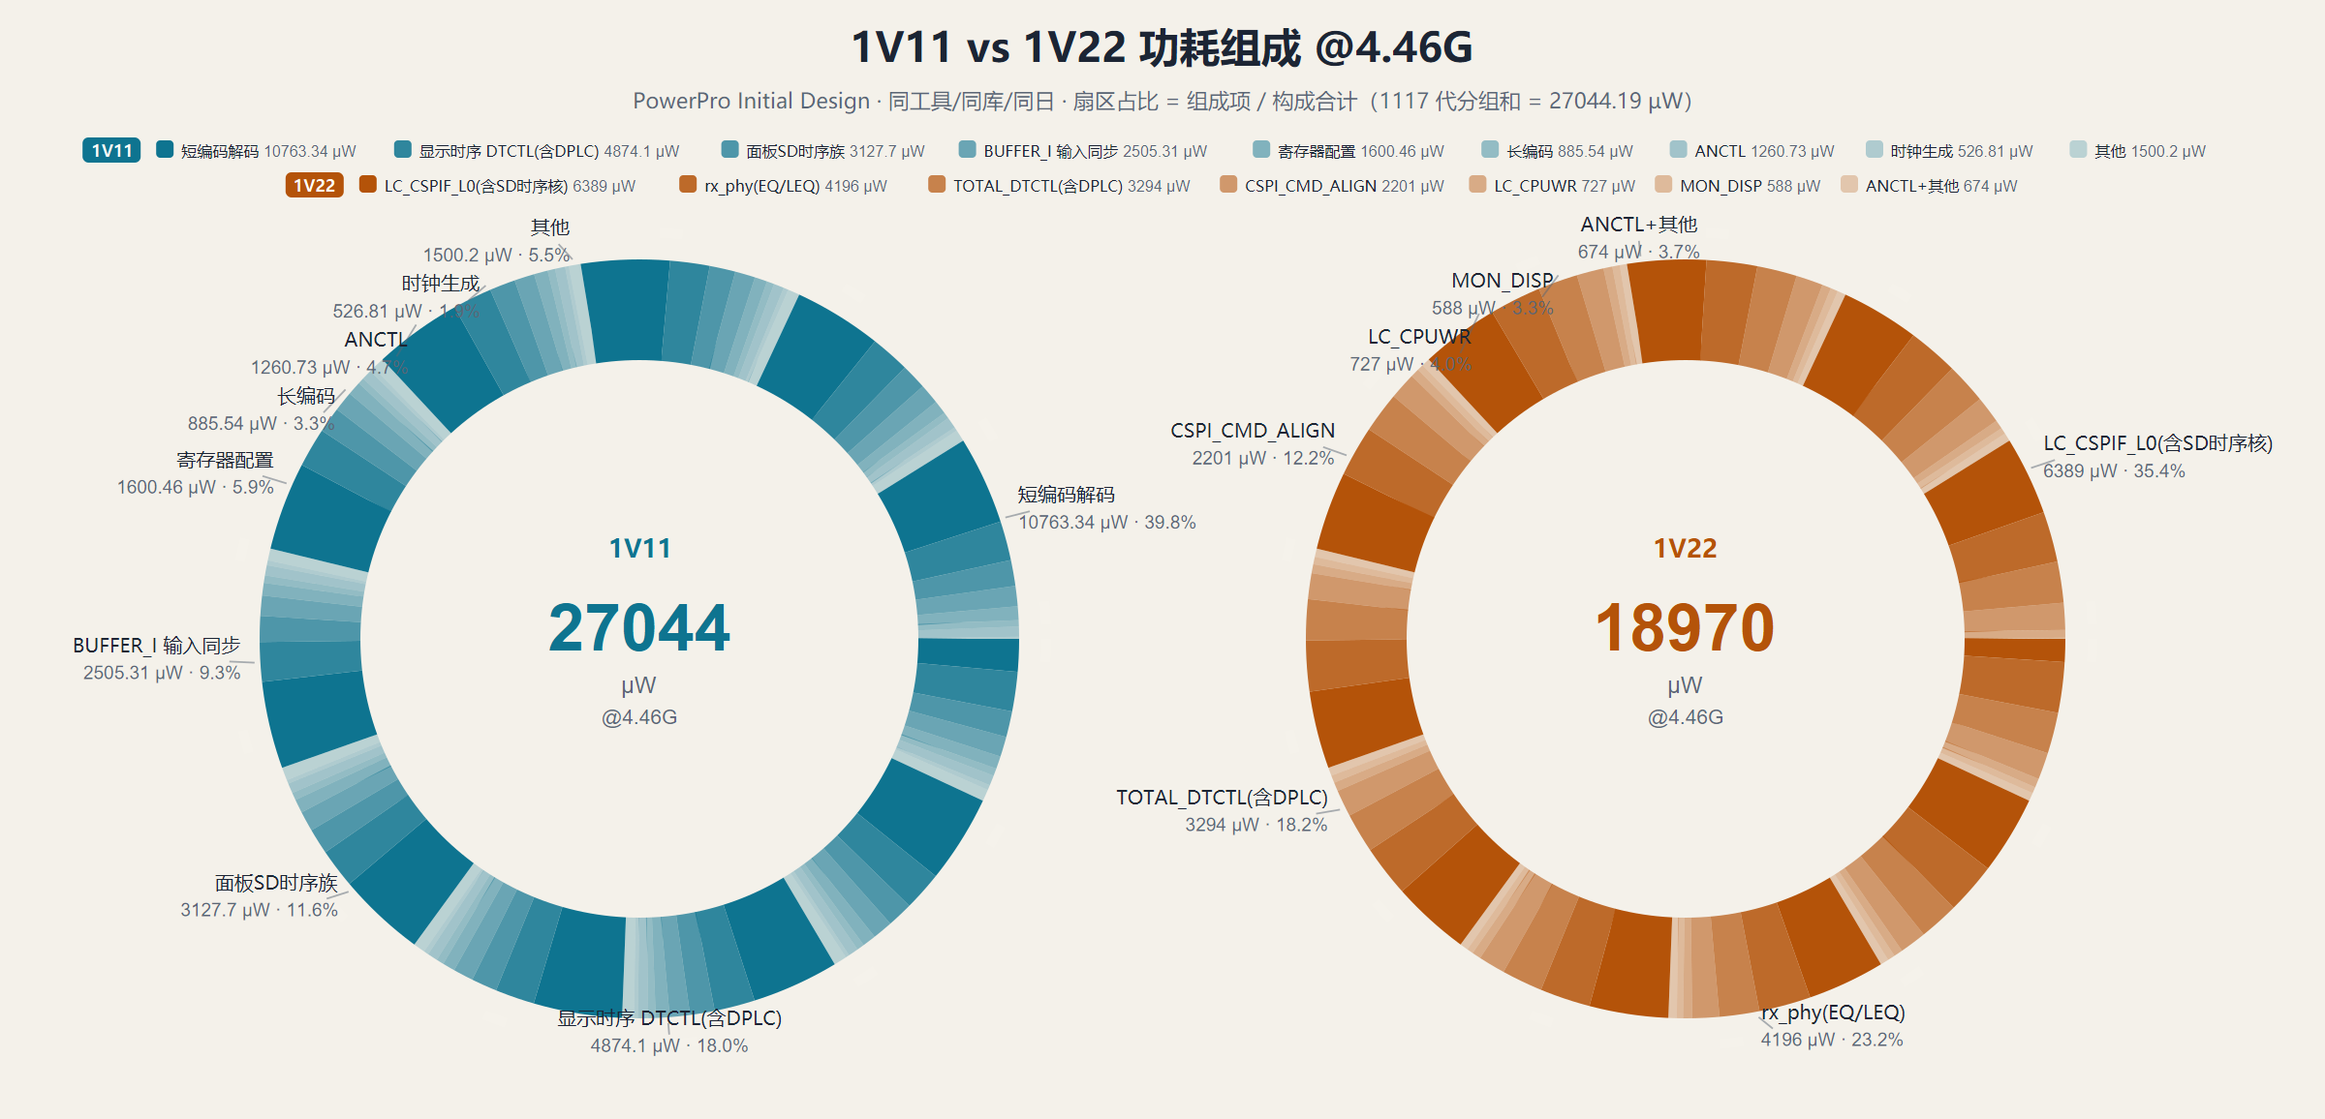
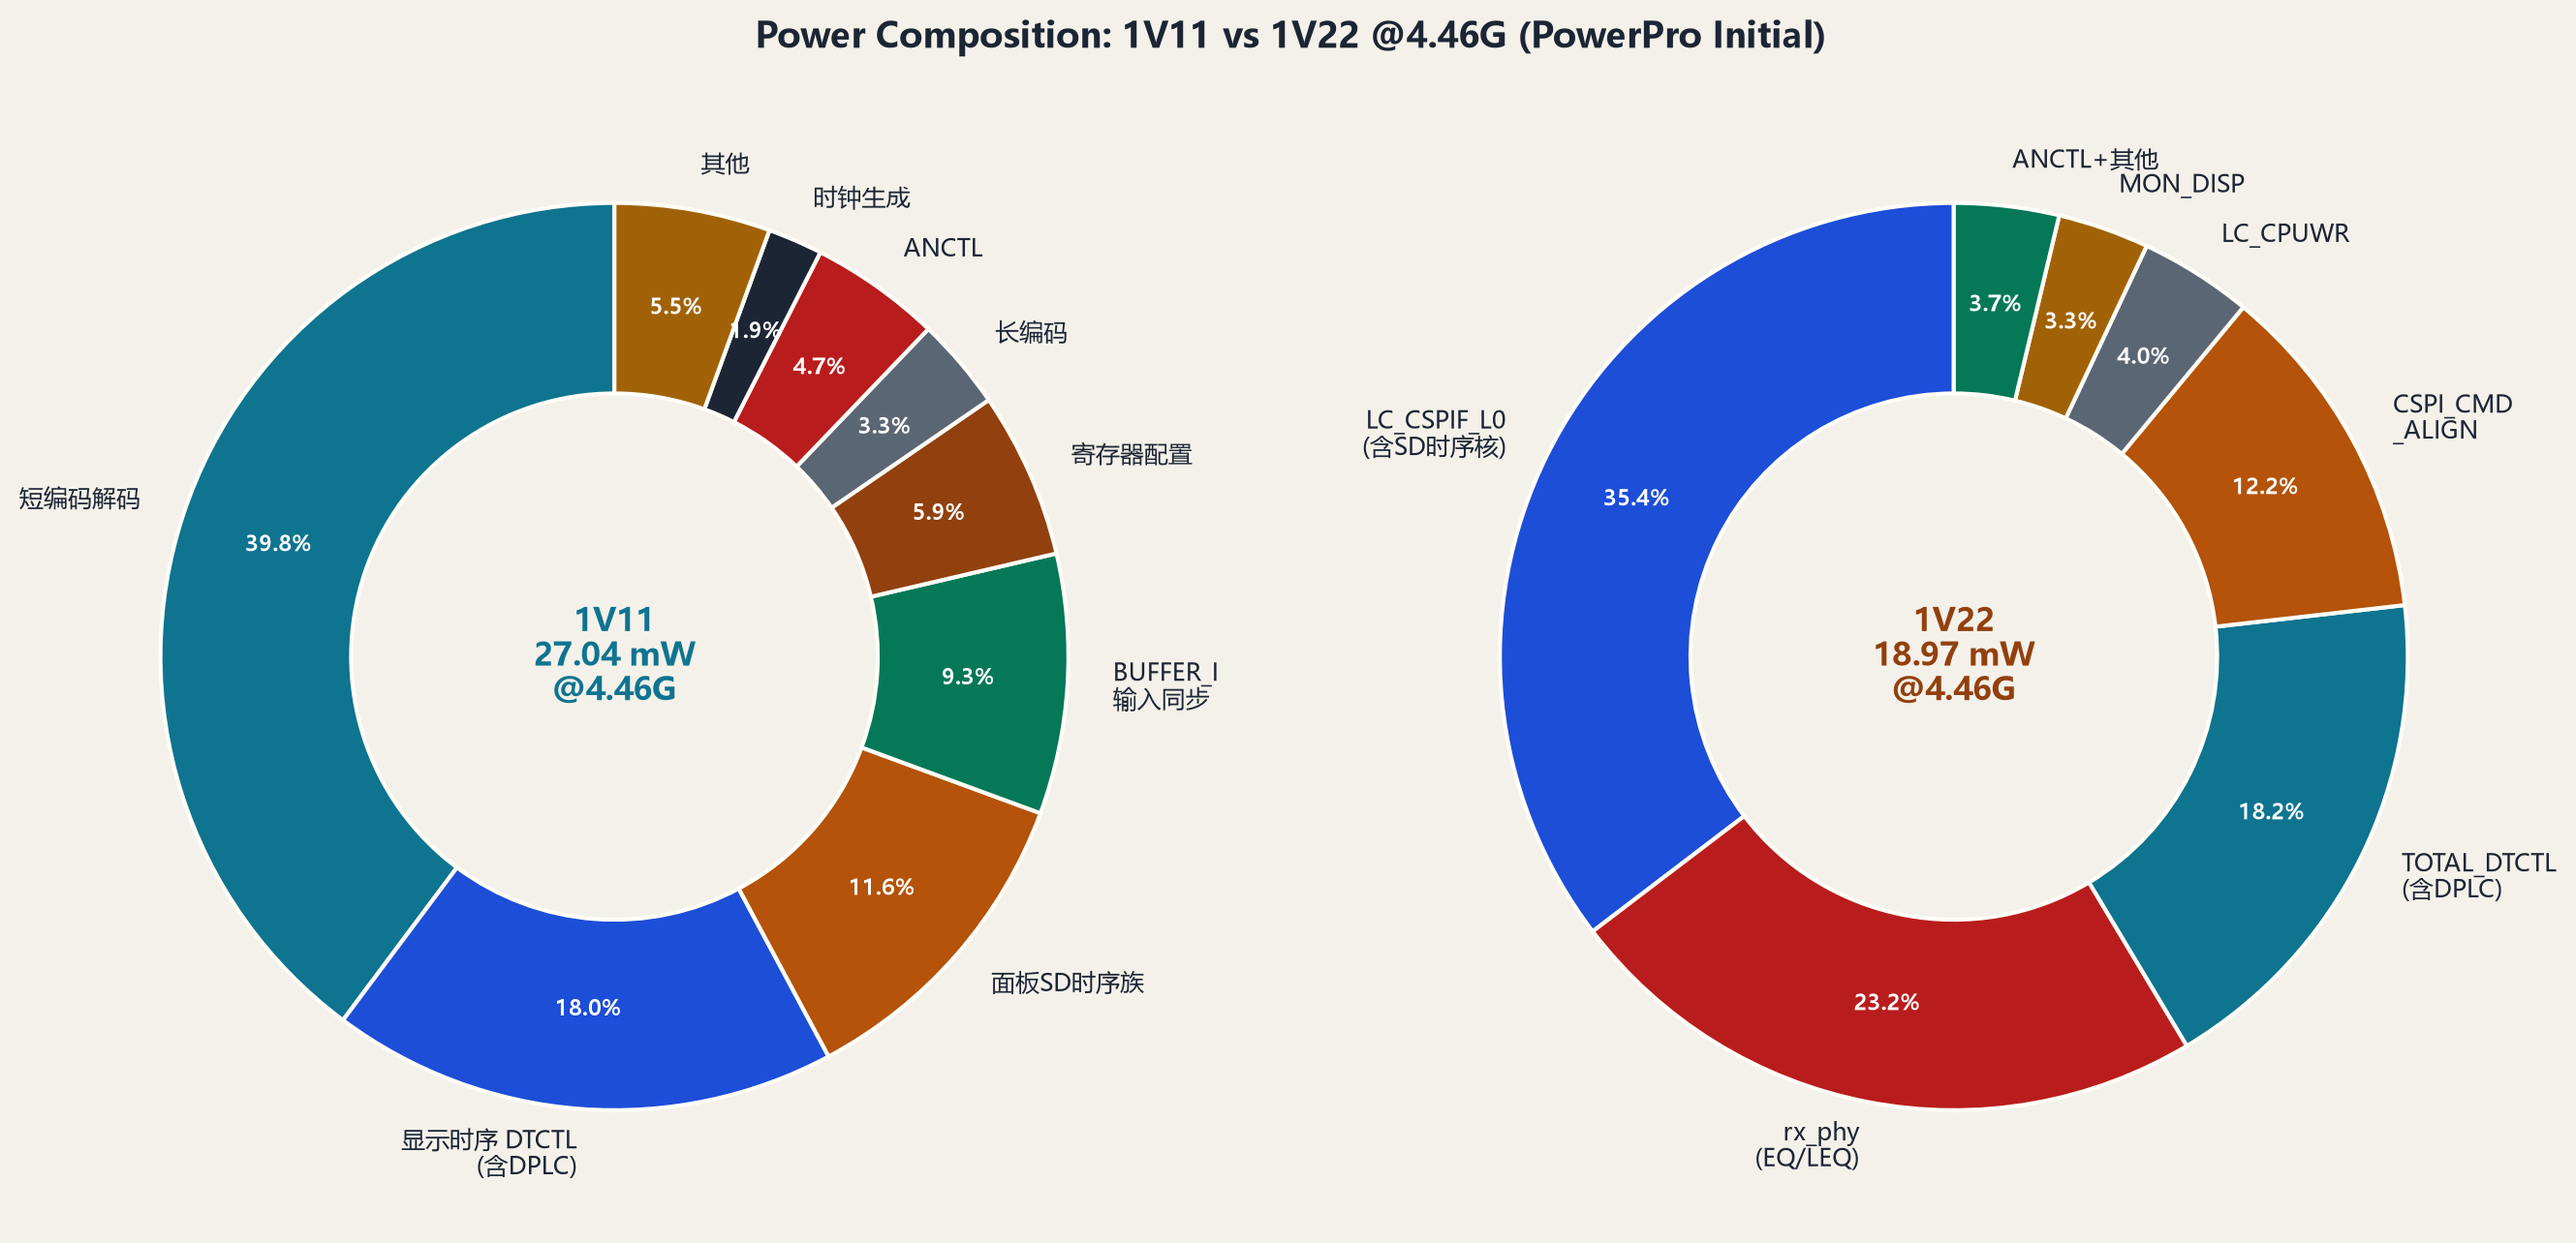
update daily records (1117 功耗三图同步终版：compare 含 DPLC 18.087、donut 新副标题)

diff --git a/index.html b/index.html
@@ -218,7 +218,7 @@
     <aside class="sidebar">
       <div class="sidebar-header">
         <h1>每日记录</h1>
-        <div class="meta">生成时间: 2026-11-17 16:32:24</div>
+        <div class="meta">生成时间: 2026-11-17 16:33:13</div>
       </div>
       <div class="search-box">
         <input type="text" id="searchInput" placeholder="搜索文件名..." oninput="filterFiles(this.value)">
